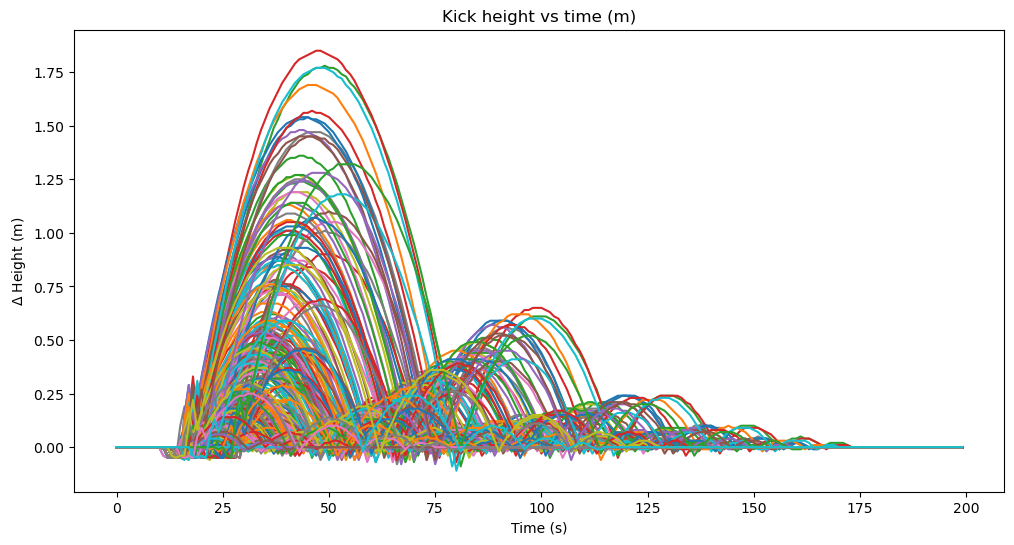
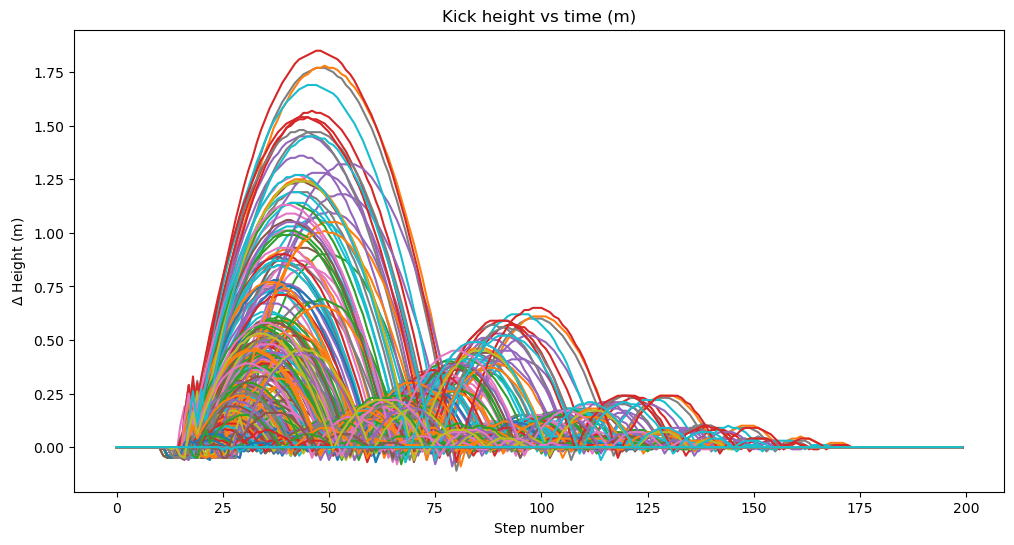
Additions to tracking data

Changed region(s): [[0.1529, 0.1248, 0.8254, 0.8734], [0.4892, 0.9358, 0.5809, 0.9982]]

diff --git a/researchreport.tex b/researchreport.tex
@@ -788,11 +788,11 @@ The dataset is interrogated in order to understand and sanity check the acquired
 \fontsize{9.5pt}{12pt}\selectfont
 \centering
 \begin{tabular}{c|ll|l|ll}
-{\bf Dataset}	&{\bf Kicks}	&{\bf Split}	&{\bf Timesteps}	&{\bf Grounded}	&{\bf Lofted}	\\\hline
-Total			&370			&100\%			&370			&20.3\%			&79.7\%			\\\hline   
-Train			&222			&60\%			&370			&21.2\%			&78.8\%			\\\hline  
-Validation		&74				&20\%			&370			&17.8\%			&82.2\%			\\\hline  
-Test			&74				&20\%			&370			&20.0\%			&80.0\%			\\\hline                        
+{\bf Dataset}	&{\bf Kicks}	&{\bf Split}	&{\bf Mean steps}	&{\bf Grounded}	&{\bf Lofted}	\\\hline
+Total			&370			&100\%			&295.4			&20.3\%			&79.7\%			\\\hline   
+Train			&222			&60\%			&294.1			&21.2\%			&78.8\%			\\\hline  
+Validation		&74				&20\%			&296.5			&17.8\%			&82.2\%			\\\hline  
+Test			&74				&20\%			&297.9			&20.0\%			&80.0\%			\\\hline                        
 \end{tabular}
 \caption{Tracking dataset}
 \label{tab:tracking}
